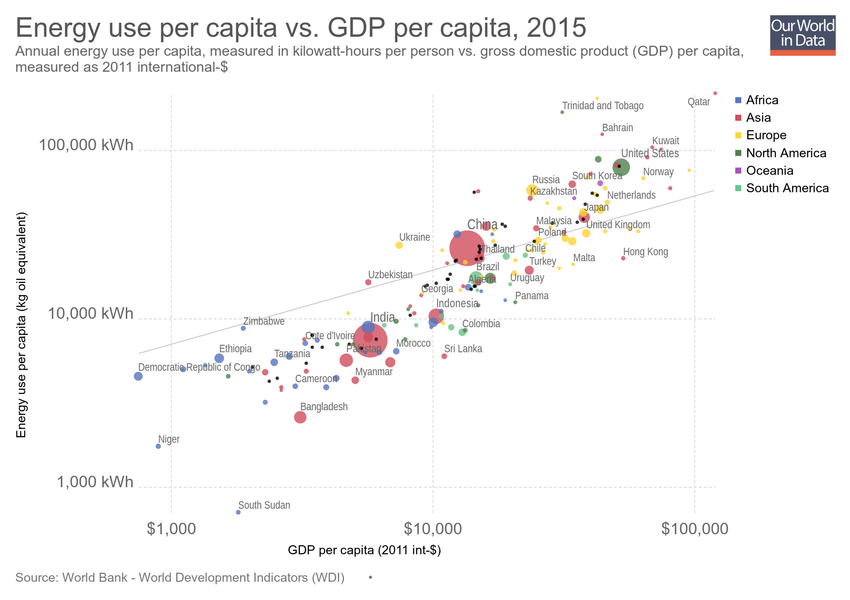
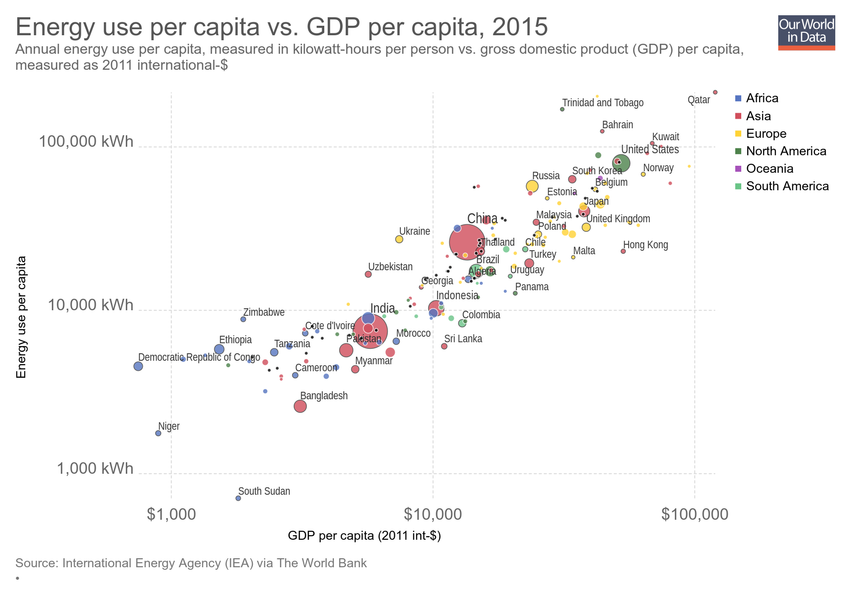
Updating chart energy-use-per-capita-vs-gdp-per-capita

diff --git a/grapher/energy-use-per-capita-vs-gdp-per-capita.html b/grapher/energy-use-per-capita-vs-gdp-per-capita.html
@@ -1,4 +1,4 @@
-<!doctype html><html><head><meta name="viewport" content="width=device-width, initial-scale=1" /><title>Energy use per capita vs. GDP per capita - Our World in Data</title><meta name="description" content="Annual energy use per capita, measured in kilowatt-hours per person vs. gross domestic product (GDP) per capita, measured as 2011 international-$" /><link rel="canonical" href="https://ourworldindata.org/grapher/energy-use-per-capita-vs-gdp-per-capita" /><meta property="fb:app_id" content="1149943818390250" /><meta property="og:url" content="https://ourworldindata.org/grapher/energy-use-per-capita-vs-gdp-per-capita" /><meta property="og:title" content="Energy use per capita vs. GDP per capita" /><meta property="og:description" content="Annual energy use per capita, measured in kilowatt-hours per person vs. gross domestic product (GDP) per capita, measured as 2011 international-$" /><meta property="og:image" content="https://ourworldindata.org/grapher/exports/energy-use-per-capita-vs-gdp-per-capita.png?v=3" /><meta property="og:image:width" content="850" /><meta property="og:image:height" content="600" /><meta property="og:site_name" content="Our World in Data" /><meta name="twitter:card" content="summary_large_image" /><meta name="twitter:site" content="@OurWorldInData" /><meta name="twitter:creator" content="@OurWorldInData" /><meta name="twitter:title" content="Energy use per capita vs. GDP per capita" /><meta name="twitter:description" content="Annual energy use per capita, measured in kilowatt-hours per person vs. gross domestic product (GDP) per capita, measured as 2011 international-$" /><meta name="twitter:image" content="https://ourworldindata.org/grapher/exports/energy-use-per-capita-vs-gdp-per-capita.png?v=3" /><style>
+<!doctype html><html><head><meta name="viewport" content="width=device-width, initial-scale=1" /><title>Energy use per capita vs. GDP per capita - Our World in Data</title><meta name="description" content="Annual energy use per capita, measured in kilowatt-hours per person vs. gross domestic product (GDP) per capita, measured as 2011 international-$" /><link rel="canonical" href="https://ourworldindata.org/grapher/energy-use-per-capita-vs-gdp-per-capita" /><meta property="fb:app_id" content="1149943818390250" /><meta property="og:url" content="https://ourworldindata.org/grapher/energy-use-per-capita-vs-gdp-per-capita" /><meta property="og:title" content="Energy use per capita vs. GDP per capita" /><meta property="og:description" content="Annual energy use per capita, measured in kilowatt-hours per person vs. gross domestic product (GDP) per capita, measured as 2011 international-$" /><meta property="og:image" content="https://ourworldindata.org/grapher/exports/energy-use-per-capita-vs-gdp-per-capita.png?v=4" /><meta property="og:image:width" content="850" /><meta property="og:image:height" content="600" /><meta property="og:site_name" content="Our World in Data" /><meta name="twitter:card" content="summary_large_image" /><meta name="twitter:site" content="@OurWorldInData" /><meta name="twitter:creator" content="@OurWorldInData" /><meta name="twitter:title" content="Energy use per capita vs. GDP per capita" /><meta name="twitter:description" content="Annual energy use per capita, measured in kilowatt-hours per person vs. gross domestic product (GDP) per capita, measured as 2011 international-$" /><meta name="twitter:image" content="https://ourworldindata.org/grapher/exports/energy-use-per-capita-vs-gdp-per-capita.png?v=4" /><style>
         html, body {
             height: 100%;
             margin: 0;
@@ -20,8 +20,8 @@
         }
     </style><noscript><style>
                     figure { display: none !important; }
-                </style></noscript><link rel="stylesheet" href="https://ourworldindata.org/grapher/assets/commons.bundle.b9f051796dbbbb7e5139.css" /><link rel="preload" href="/grapher/data/variables/2087+2209+72+123.json?v=3" as="fetch" crossorigin /></head><body class="singleChart"><figure data-grapher-src="/grapher/energy-use-per-capita-vs-gdp-per-capita"></figure><noscript id="fallback"><img src="/grapher/exports/energy-use-per-capita-vs-gdp-per-capita.svg" /><p>Interactive visualization requires JavaScript</p></noscript><script src="https://cdn.polyfill.io/v2/polyfill.min.js?features=es6,fetch"></script><script src="https://ourworldindata.org/grapher/assets/commons.bundle.b9f051796dbbbb7e5139.js"></script><script src="https://ourworldindata.org/grapher/assets/charts.bundle.b9f051796dbbbb7e5139.js"></script><script>
-        var jsonConfig = {"id":587,"map":{"projection":"World","targetYear":1980,"variableId":72,"timeTolerance":1,"baseColorScheme":"BuGn","colorSchemeInvert":false,"colorSchemeLabels":[],"colorSchemeValues":[],"defaultProjection":"World","legendDescription":"","customColorsActive":false,"colorSchemeMinValue":0,"customNumericColors":[],"customCategoryColors":[],"customCategoryLabels":[],"customHiddenCategories":[]},"tab":"chart","note":"","slug":"energy-use-per-capita-vs-gdp-per-capita","type":"ScatterPlot","title":"Energy use per capita vs. GDP per capita","xAxis":{"scaleType":"log","canChangeScaleType":true},"yAxis":{"min":0,"scaleType":"log","labelDistance":-1,"canChangeScaleType":true},"maxTime":2015,"minTime":2015,"version":3,"subtitle":"Annual energy use per capita, measured in kilowatt-hours per person vs. gross domestic product (GDP) per capita, measured as 2011 international-$","hasMapTab":false,"originUrl":"https://ourworldindata.org/energy-production-and-changing-energy-sources/","stackMode":null,"dimensions":[{"display":{"name":"Energy use per capita (kg oil equivalent)"},"property":"y","variableId":2087},{"display":{"name":"GDP per capita (2011 int-$)"},"property":"x","variableId":2209},{"display":{"name":"Total population (Gapminder)","tolerance":5,"isProjection":false},"property":"size","variableId":72},{"display":{},"property":"color","variableId":123}],"entityType":"country","hideLegend":true,"sourceDesc":"International Energy Agency (IEA) via The World Bank","hasChartTab":true,"isPublished":true,"hideTimeline":true,"selectedData":[],"internalNotes":"","addCountryMode":"add-country","hideRelativeToggle":false};
+                </style></noscript><link rel="stylesheet" href="https://ourworldindata.org/grapher/assets/commons.bundle.b9f051796dbbbb7e5139.css" /><link rel="preload" href="/grapher/data/variables/2087+2209+72+123.json?v=4" as="fetch" crossorigin /></head><body class="singleChart"><figure data-grapher-src="/grapher/energy-use-per-capita-vs-gdp-per-capita"></figure><noscript id="fallback"><img src="/grapher/exports/energy-use-per-capita-vs-gdp-per-capita.svg" /><p>Interactive visualization requires JavaScript</p></noscript><script src="https://cdn.polyfill.io/v2/polyfill.min.js?features=es6,fetch"></script><script src="https://ourworldindata.org/grapher/assets/commons.bundle.b9f051796dbbbb7e5139.js"></script><script src="https://ourworldindata.org/grapher/assets/charts.bundle.b9f051796dbbbb7e5139.js"></script><script>
+        var jsonConfig = {"id":587,"map":{"projection":"World","targetYear":1980,"variableId":72,"timeTolerance":1,"baseColorScheme":"BuGn","colorSchemeInvert":false,"colorSchemeLabels":[],"colorSchemeValues":[],"legendDescription":"","customColorsActive":false,"colorSchemeMinValue":0,"customNumericColors":[],"customCategoryColors":[],"customCategoryLabels":[],"customHiddenCategories":[]},"tab":"chart","note":"","slug":"energy-use-per-capita-vs-gdp-per-capita","type":"ScatterPlot","title":"Energy use per capita vs. GDP per capita","xAxis":{"scaleType":"log","canChangeScaleType":true},"yAxis":{"min":0,"scaleType":"log","labelDistance":-1,"canChangeScaleType":true},"maxTime":2015,"minTime":2015,"version":4,"subtitle":"Annual energy use per capita, measured in kilowatt-hours per person vs. gross domestic product (GDP) per capita, measured as 2011 international-$","hasMapTab":false,"originUrl":"https://ourworldindata.org/energy-production-and-changing-energy-sources/","stackMode":null,"dimensions":[{"display":{"name":"Energy use per capita"},"property":"y","variableId":2087},{"display":{"name":"GDP per capita (2011 int-$)"},"property":"x","variableId":2209},{"display":{"name":"Total population (Gapminder)","tolerance":5,"isProjection":false},"property":"size","variableId":72},{"display":{},"property":"color","variableId":123}],"entityType":"country","hideLegend":true,"sourceDesc":"International Energy Agency (IEA) via The World Bank","hasChartTab":true,"isPublished":true,"selectedData":[],"internalNotes":"","addCountryMode":"add-country","hideRelativeToggle":false};
         var figure = document.getElementsByTagName("figure")[0];
         try {
             window.App = {};
